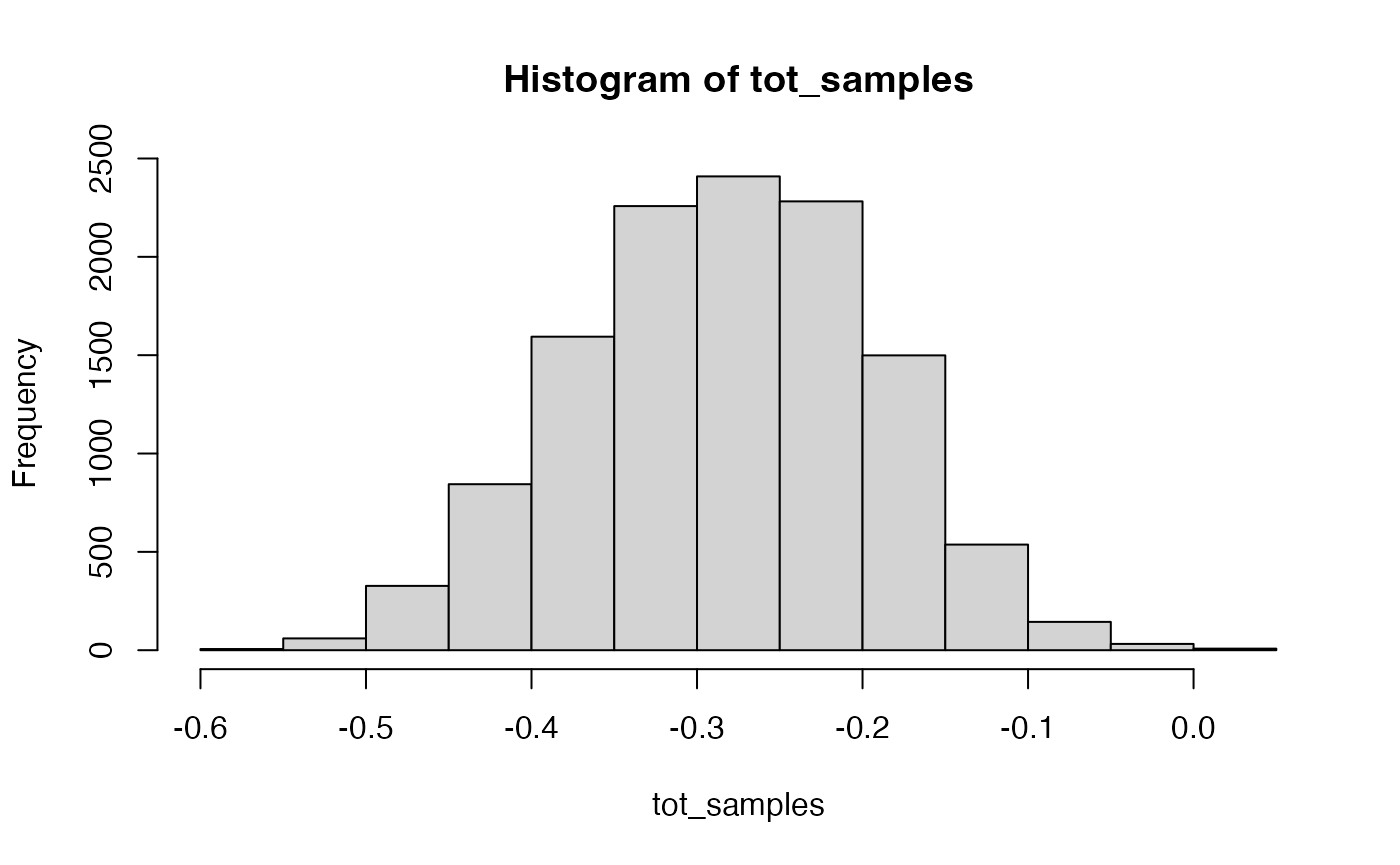
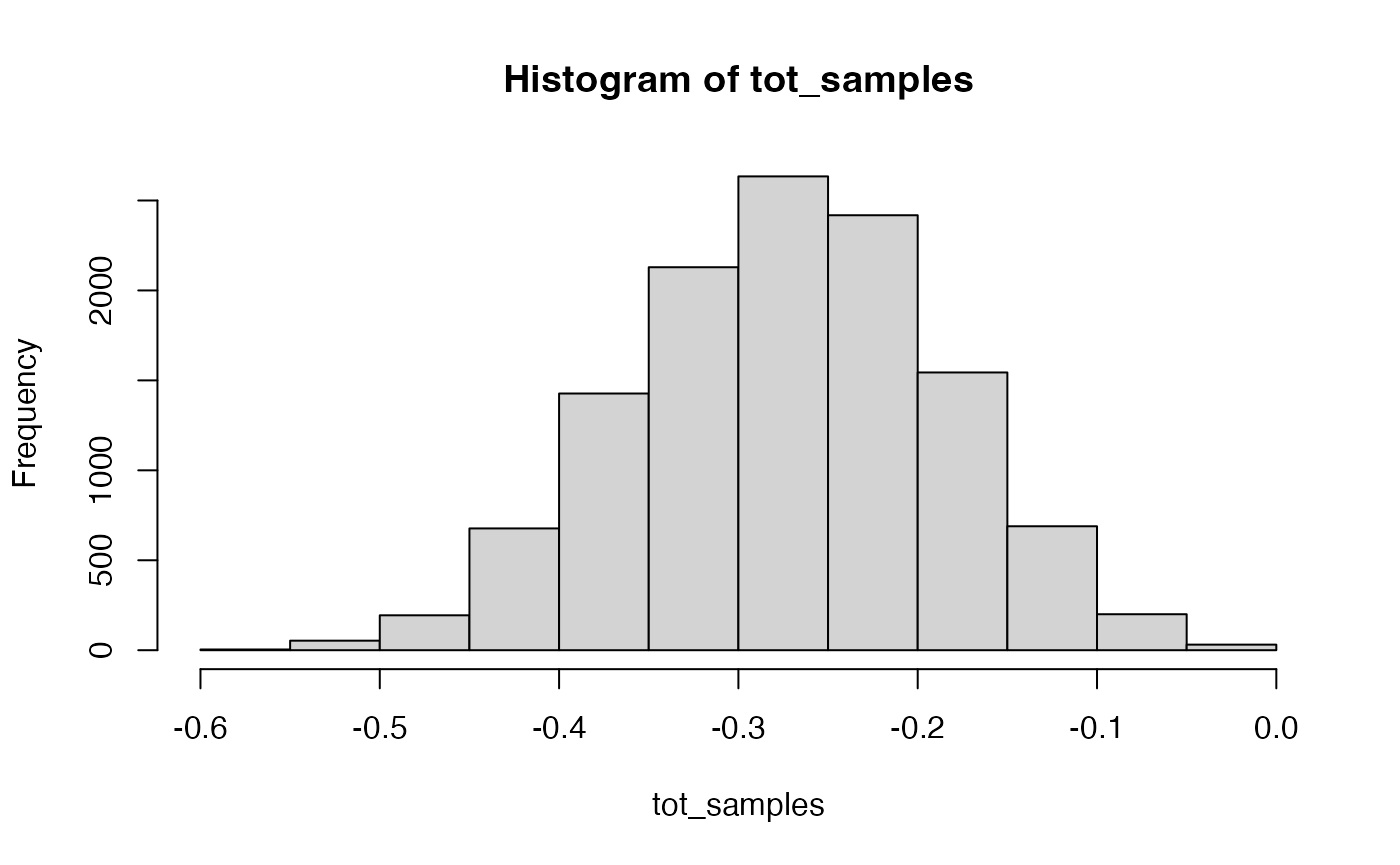
Update Website

diff --git a/docs/articles/FLOW-MR-tutorial.html b/docs/articles/FLOW-MR-tutorial.html
@@ -72,7 +72,7 @@ how to use the package step by step.</p>
 <span><span class="fu"><a href="https://rdrr.io/r/utils/install.packages.html" class="external-link">install.packages</a></span><span class="op">(</span><span class="st">"devtools"</span><span class="op">)</span></span>
 <span><span class="co">#&gt; </span></span>
 <span><span class="co">#&gt; The downloaded binary packages are in</span></span>
-<span><span class="co">#&gt;  /var/folders/1p/kyg0zmtx4gdg27q_5x4d78fc0000gn/T//RtmpDkucRo/downloaded_packages</span></span>
+<span><span class="co">#&gt;  /var/folders/1p/kyg0zmtx4gdg27q_5x4d78fc0000gn/T//RtmptWTpdY/downloaded_packages</span></span>
 <span></span>
 <span><span class="co"># Install FLOW-MR</span></span>
 <span><span class="fu">devtools</span><span class="fu">::</span><span class="fu"><a href="https://remotes.r-lib.org/reference/install_github.html" class="external-link">install_github</a></span><span class="op">(</span><span class="st">"ZixuanWu1/FLOW-MR"</span><span class="op">)</span></span>
@@ -86,9 +86,9 @@ how to use the package step by step.</p>
 <span><span class="co">#&gt; RcppArmad... (14.0.2-1 -&gt; 14.2.3-1) [CRAN]</span></span>
 <span><span class="co">#&gt; </span></span>
 <span><span class="co">#&gt; The downloaded binary packages are in</span></span>
-<span><span class="co">#&gt;  /var/folders/1p/kyg0zmtx4gdg27q_5x4d78fc0000gn/T//RtmpDkucRo/downloaded_packages</span></span>
+<span><span class="co">#&gt;  /var/folders/1p/kyg0zmtx4gdg27q_5x4d78fc0000gn/T//RtmptWTpdY/downloaded_packages</span></span>
 <span><span class="co">#&gt; <span style="color: #00BBBB;">──</span> <span style="color: #00BBBB;">R CMD build</span> <span style="color: #00BBBB;">─────────────────────────────────────────────────────────────────</span></span></span>
-<span><span class="co">#&gt; * checking for file ‘/private/var/folders/1p/kyg0zmtx4gdg27q_5x4d78fc0000gn/T/RtmpDkucRo/remotes7c715da2a286/ZixuanWu1-FLOW-MR-61a3970/DESCRIPTION’ ... OK</span></span>
+<span><span class="co">#&gt; * checking for file ‘/private/var/folders/1p/kyg0zmtx4gdg27q_5x4d78fc0000gn/T/RtmptWTpdY/remotes82ab7c5e755f/ZixuanWu1-FLOW-MR-3d2eb46/DESCRIPTION’ ... OK</span></span>
 <span><span class="co">#&gt; * preparing ‘FLOWMR’:</span></span>
 <span><span class="co">#&gt; * checking DESCRIPTION meta-information ... OK</span></span>
 <span><span class="co">#&gt; * cleaning src</span></span>
@@ -210,8 +210,8 @@ diagonal matrix.</p>
 <span><span class="va">cor_mat</span> <span class="op">=</span> <span class="va">data.list</span><span class="op">$</span><span class="va">cor.mat</span><span class="op">[</span><span class="fl">3</span><span class="op">:</span><span class="fl">1</span>, <span class="fl">3</span><span class="op">:</span><span class="fl">1</span><span class="op">]</span></span>
 <span></span>
 <span><span class="va">result</span> <span class="op">=</span> <span class="fu"><a href="../reference/BayesMediation.html">BayesMediation</a></span><span class="op">(</span><span class="va">Gamma_hat</span>, <span class="va">Sd_hat</span>, cor <span class="op">=</span> <span class="va">cor_mat</span>, inv <span class="op">=</span> <span class="cn">TRUE</span><span class="op">)</span></span>
-<span><span class="co">#&gt; [1] "2025-03-14 11:55:25 CDT"</span></span>
-<span><span class="co">#&gt; [1] "2025-03-14 11:57:10 CDT"</span></span></code></pre></div>
+<span><span class="co">#&gt; [1] "2025-03-14 12:34:57 CDT"</span></span>
+<span><span class="co">#&gt; [1] "2025-03-14 12:36:41 CDT"</span></span></code></pre></div>
 </div>
 <div class="section level3">
 <h3 id="step-3-look-at-summary-of-direct-effects">Step 3: Look at summary of direct effects<a class="anchor" aria-label="anchor" href="#step-3-look-at-summary-of-direct-effects"></a>
@@ -221,33 +221,33 @@ corresponds to a parameter.</p>
 <div class="sourceCode" id="cb6"><pre class="downlit sourceCode r">
 <code class="sourceCode R"><span><span class="fu"><a href="https://rdrr.io/r/base/print.html" class="external-link">print</a></span><span class="op">(</span><span class="va">result</span><span class="op">$</span><span class="va">summary</span><span class="op">)</span></span>
 <span><span class="co">#&gt;                   mean          var           sd         2.5%          50%</span></span>
-<span><span class="co">#&gt; B[1,2]     0.141866051 1.690846e-02 0.1300325229 -0.104926563  0.140193822</span></span>
-<span><span class="co">#&gt; B[1,3]    -0.388057840 2.919489e-02 0.1708651177 -0.734887427 -0.384418091</span></span>
-<span><span class="co">#&gt; B[2,3]     0.713930148 7.093020e-03 0.0842200699  0.570185527  0.706959237</span></span>
-<span><span class="co">#&gt; sigma      0.438861906 1.336051e-02 0.1155876721  0.276587484  0.417741913</span></span>
-<span><span class="co">#&gt; sigma1[1]  0.025779130 1.868805e-05 0.0043229683  0.019017152  0.025219493</span></span>
-<span><span class="co">#&gt; sigma1[2]  0.025750103 6.300285e-05 0.0079374332  0.015839325  0.024068162</span></span>
-<span><span class="co">#&gt; sigma1[3]  0.047771671 9.741439e-05 0.0098698729  0.032528606  0.046388461</span></span>
-<span><span class="co">#&gt; sigma0[1]  0.004271716 7.381307e-07 0.0008591453  0.002761299  0.004214239</span></span>
-<span><span class="co">#&gt; sigma0[2]  0.008388768 6.957819e-07 0.0008341354  0.006730439  0.008401480</span></span>
-<span><span class="co">#&gt; sigma0[3]  0.011020590 1.559711e-06 0.0012488841  0.008687725  0.011006826</span></span>
-<span><span class="co">#&gt; p[1]       0.099314293 1.245940e-03 0.0352978753  0.041376946  0.095277501</span></span>
-<span><span class="co">#&gt; p[2]       0.023073770 3.257777e-04 0.0180493142  0.002542834  0.018454671</span></span>
-<span><span class="co">#&gt; p[3]       0.041990350 2.540267e-04 0.0159382146  0.016782304  0.040033957</span></span>
-<span><span class="co">#&gt;                  97.5%        ESS     Rhat</span></span>
-<span><span class="co">#&gt; B[1,2]     0.407567356  439.25692 1.002105</span></span>
-<span><span class="co">#&gt; B[1,3]    -0.066591058  369.67624 1.007111</span></span>
-<span><span class="co">#&gt; B[2,3]     0.897578677   68.76023 1.001522</span></span>
-<span><span class="co">#&gt; sigma      0.716403789 3004.52552 1.003097</span></span>
-<span><span class="co">#&gt; sigma1[1]  0.035743097 1457.78732 1.000962</span></span>
-<span><span class="co">#&gt; sigma1[2]  0.045771036 3258.89012 1.000128</span></span>
-<span><span class="co">#&gt; sigma1[3]  0.071003778 1137.78288 1.000100</span></span>
-<span><span class="co">#&gt; sigma0[1]  0.006042001  191.53655 1.002549</span></span>
-<span><span class="co">#&gt; sigma0[2]  0.009977830  373.67315 1.010593</span></span>
-<span><span class="co">#&gt; sigma0[3]  0.013549715  352.16442 1.013229</span></span>
-<span><span class="co">#&gt; p[1]       0.177034040  700.56206 1.003329</span></span>
-<span><span class="co">#&gt; p[2]       0.070444940  744.26145 1.002014</span></span>
-<span><span class="co">#&gt; p[3]       0.078818644 1713.76121 1.000228</span></span></code></pre></div>
+<span><span class="co">#&gt; B[1,2]     0.134913387 1.719653e-02 0.1311355442 -0.115930446  0.131241096</span></span>
+<span><span class="co">#&gt; B[1,3]    -0.373274711 2.832795e-02 0.1683090772 -0.707048889 -0.370629141</span></span>
+<span><span class="co">#&gt; B[2,3]     0.715704146 8.267723e-03 0.0909270194  0.554048173  0.708927402</span></span>
+<span><span class="co">#&gt; sigma      0.430773343 1.263640e-02 0.1124117310  0.274130601  0.410737369</span></span>
+<span><span class="co">#&gt; sigma1[1]  0.025843267 1.910750e-05 0.0043712126  0.019143010  0.025225680</span></span>
+<span><span class="co">#&gt; sigma1[2]  0.025620768 5.962903e-05 0.0077219836  0.015781365  0.023996519</span></span>
+<span><span class="co">#&gt; sigma1[3]  0.047493917 9.527704e-05 0.0097609957  0.032502388  0.046127030</span></span>
+<span><span class="co">#&gt; sigma0[1]  0.004456084 7.257935e-07 0.0008519351  0.002936838  0.004406036</span></span>
+<span><span class="co">#&gt; sigma0[2]  0.008318044 7.318712e-07 0.0008554947  0.006593115  0.008331225</span></span>
+<span><span class="co">#&gt; sigma0[3]  0.011111692 1.499355e-06 0.0012244814  0.008846204  0.011085034</span></span>
+<span><span class="co">#&gt; p[1]       0.098620779 1.251526e-03 0.0353769149  0.041497792  0.094618998</span></span>
+<span><span class="co">#&gt; p[2]       0.022496718 2.999404e-04 0.0173187878  0.002380391  0.018029407</span></span>
+<span><span class="co">#&gt; p[3]       0.042391575 2.495704e-04 0.0157977977  0.017679296  0.040252212</span></span>
+<span><span class="co">#&gt;                  97.5%        ESS      Rhat</span></span>
+<span><span class="co">#&gt; B[1,2]     0.397526222  529.39168 1.0080885</span></span>
+<span><span class="co">#&gt; B[1,3]    -0.050858200  429.07182 1.0070260</span></span>
+<span><span class="co">#&gt; B[2,3]     0.929141533   67.83301 1.0295475</span></span>
+<span><span class="co">#&gt; sigma      0.704547143 4815.13038 1.0009763</span></span>
+<span><span class="co">#&gt; sigma1[1]  0.036222806 1523.29069 1.0007237</span></span>
+<span><span class="co">#&gt; sigma1[2]  0.045137731 3150.57332 0.9998395</span></span>
+<span><span class="co">#&gt; sigma1[3]  0.070531483 1262.83868 1.0028611</span></span>
+<span><span class="co">#&gt; sigma0[1]  0.006233283  193.53541 1.0026416</span></span>
+<span><span class="co">#&gt; sigma0[2]  0.009913154  281.13879 1.0195578</span></span>
+<span><span class="co">#&gt; sigma0[3]  0.013653479  338.66724 1.0043035</span></span>
+<span><span class="co">#&gt; p[1]       0.176972208  636.39729 1.0018152</span></span>
+<span><span class="co">#&gt; p[2]       0.067572575  816.55479 0.9999254</span></span>
+<span><span class="co">#&gt; p[3]       0.079586440 1687.87773 1.0009081</span></span></code></pre></div>
 <p>In this summary, we provide the estimated posterior mean, variance,
 standard deviation, 2.5% quantile, median, 97.5% quantile, effective
 sample size (ESS), and Gelman-Rubin Rhat statistic for each parameter.
@@ -267,8 +267,8 @@ the direct direct effect of childhood BMI on breast cancer;
 BMI on adult BMI.</p>
 <p>See the figure below for a visualization.</p>
 <div class="sourceCode" id="cb7"><pre class="downlit sourceCode r">
-<code class="sourceCode R"><span><span class="fu">knitr</span><span class="fu">::</span><span class="fu"><a href="https://rdrr.io/pkg/knitr/man/include_graphics.html" class="external-link">include_graphics</a></span><span class="op">(</span><span class="st">"/Users/zixuanwu/Documents/GitHub/FLOW-MR/docs/EffectVisual.png"</span><span class="op">)</span></span></code></pre></div>
-<p><img src="..%2Fdocs%2FEffectVisual.png" width="870"></p>
+<code class="sourceCode R"><span><span class="fu">knitr</span><span class="fu">::</span><span class="fu"><a href="https://rdrr.io/pkg/knitr/man/include_graphics.html" class="external-link">include_graphics</a></span><span class="op">(</span><span class="st">"https://zixuanwu1.github.io/FLOW-MR/articles/FLOW-MR-tutorial_files/figure-html/EffectVisual.png"</span><span class="op">)</span></span></code></pre></div>
+<p><img src="https://zixuanwu1.github.io/FLOW-MR/articles/FLOW-MR-tutorial_files/figure-html/EffectVisual.png"><!-- --></p>
 <p>For the meaning of other parameters, we assume the following priors
 in our manuscript:</p>
 <p><math display="block" xmlns="http://www.w3.org/1998/Math/MathML"><semantics><mrow><msub><mi>α</mi><mrow><mi>k</mi><mi>j</mi></mrow></msub><mo>∼</mo><mrow><mo stretchy="true" form="prefix">(</mo><mn>1</mn><mo>−</mo><msub><mi>p</mi><mi>k</mi></msub><mo stretchy="true" form="postfix">)</mo></mrow><mi>N</mi><mrow><mo stretchy="true" form="prefix">(</mo><mn>0</mn><mo>,</mo><msubsup><mi>σ</mi><mrow><mi>k</mi><mn>0</mn></mrow><mn>2</mn></msubsup><mo stretchy="true" form="postfix">)</mo></mrow><mo>+</mo><msub><mi>p</mi><mi>k</mi></msub><mi>N</mi><mrow><mo stretchy="true" form="prefix">(</mo><mn>0</mn><mo>,</mo><msubsup><mi>σ</mi><mrow><mi>k</mi><mn>1</mn></mrow><mn>2</mn></msubsup><mo stretchy="true" form="postfix">)</mo></mrow></mrow><annotation encoding="application/x-tex">
@@ -320,8 +320,8 @@ a user-defined warm-up period. The parameter must be one of “B”,
 <p>We can check its quantiles:</p>
 <div class="sourceCode" id="cb9"><pre class="downlit sourceCode r">
 <code class="sourceCode R"><span><span class="fu"><a href="https://rdrr.io/r/stats/quantile.html" class="external-link">quantile</a></span><span class="op">(</span><span class="va">post_B</span>, <span class="fu"><a href="https://rdrr.io/r/base/c.html" class="external-link">c</a></span><span class="op">(</span><span class="fl">0.025</span>, <span class="fl">.5</span>, <span class="fl">0.975</span><span class="op">)</span><span class="op">)</span></span>
-<span><span class="co">#&gt;        2.5%         50%       97.5% </span></span>
-<span><span class="co">#&gt; -0.73488743 -0.38441809 -0.06659106</span></span></code></pre></div>
+<span><span class="co">#&gt;       2.5%        50%      97.5% </span></span>
+<span><span class="co">#&gt; -0.7070489 -0.3706291 -0.0508582</span></span></code></pre></div>
 <p>And we can also draw a histogram of it for visualization:</p>
 <div class="sourceCode" id="cb10"><pre class="downlit sourceCode r">
 <code class="sourceCode R"><span><span class="fu"><a href="https://rdrr.io/r/graphics/hist.html" class="external-link">hist</a></span><span class="op">(</span><span class="va">post_B</span>, breaks <span class="op">=</span> <span class="fl">30</span><span class="op">)</span></span></code></pre></div>
@@ -359,7 +359,7 @@ the four chains do not appear similar.</p>
 iterations or adjusting the prior parameters</p>
 </div>
 <div class="section level3">
-<h3 id="step-5-estimating-path-wise-indirect-effects">Step 5 Estimating path-wise / indirect effects<a class="anchor" aria-label="anchor" href="#step-5-estimating-path-wise-indirect-effects"></a>
+<h3 id="step-6-estimating-path-wise-indirect-effects">Step 6 Estimating path-wise / indirect effects<a class="anchor" aria-label="anchor" href="#step-6-estimating-path-wise-indirect-effects"></a>
 </h3>
 <p>To estimate path-wise effects, use the following command. For
 example, the function <code>indirect_effect</code> evaluates the
@@ -367,8 +367,8 @@ indirect effect of childhood BMI on breast cancer through adult BMI:</p>
 <div class="sourceCode" id="cb15"><pre class="downlit sourceCode r">
 <code class="sourceCode R"><span><span class="va">path_effect</span> <span class="op">=</span> <span class="fu"><a href="../reference/indirect_effect.html">indirect_effect</a></span><span class="op">(</span><span class="va">result</span><span class="op">$</span><span class="va">raw</span>, K <span class="op">=</span> <span class="fl">3</span>, path <span class="op">=</span> <span class="fu"><a href="https://rdrr.io/r/base/c.html" class="external-link">c</a></span><span class="op">(</span><span class="fl">3</span>,<span class="fl">2</span>,<span class="fl">1</span><span class="op">)</span>,  warmup <span class="op">=</span> <span class="fl">3000</span><span class="op">)</span></span>
 <span><span class="fu"><a href="https://rdrr.io/r/base/print.html" class="external-link">print</a></span><span class="op">(</span><span class="va">path_effect</span><span class="op">)</span></span>
-<span><span class="co">#&gt;        Mean      2.5%        50%     97.5%</span></span>
-<span><span class="co">#&gt; 1 0.1049813 -0.071848 0.09737741 0.3369249</span></span></code></pre></div>
+<span><span class="co">#&gt;        Mean        2.5%       50%     97.5%</span></span>
+<span><span class="co">#&gt; 1 0.1002068 -0.08022223 0.0918291 0.3274408</span></span></code></pre></div>
 <p>The <code>path</code> parameter specifies the path you are interested
 it. In this case it is 3 -&gt; 2 -&gt; 1. Alternatively, instead of
 focusing on a specific path, you can estimate the sum of effects from
@@ -384,28 +384,28 @@ respectively.</p>
 <span><span class="co">#&gt; , , Mean</span></span>
 <span><span class="co">#&gt; </span></span>
 <span><span class="co">#&gt;      [,1] [,2]      [,3]</span></span>
-<span><span class="co">#&gt; [1,]    0    0 0.1049813</span></span>
+<span><span class="co">#&gt; [1,]    0    0 0.1002068</span></span>
 <span><span class="co">#&gt; [2,]    0    0 0.0000000</span></span>
 <span><span class="co">#&gt; [3,]    0    0 0.0000000</span></span>
 <span><span class="co">#&gt; </span></span>
 <span><span class="co">#&gt; , , Quantile_0.025</span></span>
 <span><span class="co">#&gt; </span></span>
-<span><span class="co">#&gt;      [,1] [,2]      [,3]</span></span>
-<span><span class="co">#&gt; [1,]    0    0 -0.071848</span></span>
-<span><span class="co">#&gt; [2,]    0    0  0.000000</span></span>
-<span><span class="co">#&gt; [3,]    0    0  0.000000</span></span>
+<span><span class="co">#&gt;      [,1] [,2]        [,3]</span></span>
+<span><span class="co">#&gt; [1,]    0    0 -0.08022223</span></span>
+<span><span class="co">#&gt; [2,]    0    0  0.00000000</span></span>
+<span><span class="co">#&gt; [3,]    0    0  0.00000000</span></span>
 <span><span class="co">#&gt; </span></span>
 <span><span class="co">#&gt; , , Quantile_0.5</span></span>
 <span><span class="co">#&gt; </span></span>
-<span><span class="co">#&gt;      [,1] [,2]       [,3]</span></span>
-<span><span class="co">#&gt; [1,]    0    0 0.09737741</span></span>
-<span><span class="co">#&gt; [2,]    0    0 0.00000000</span></span>
-<span><span class="co">#&gt; [3,]    0    0 0.00000000</span></span>
+<span><span class="co">#&gt;      [,1] [,2]      [,3]</span></span>
+<span><span class="co">#&gt; [1,]    0    0 0.0918291</span></span>
+<span><span class="co">#&gt; [2,]    0    0 0.0000000</span></span>
+<span><span class="co">#&gt; [3,]    0    0 0.0000000</span></span>
 <span><span class="co">#&gt; </span></span>
 <span><span class="co">#&gt; , , Quantile_0.975</span></span>
 <span><span class="co">#&gt; </span></span>
 <span><span class="co">#&gt;      [,1] [,2]      [,3]</span></span>
-<span><span class="co">#&gt; [1,]    0    0 0.3369249</span></span>
+<span><span class="co">#&gt; [1,]    0    0 0.3274408</span></span>
 <span><span class="co">#&gt; [2,]    0    0 0.0000000</span></span>
 <span><span class="co">#&gt; [3,]    0    0 0.0000000</span></span></code></pre></div>
 <p>We can also examine the posterior inference for the total effects,
@@ -416,29 +416,29 @@ which represent the sum of the direct and indirect effects.</p>
 <span><span class="co">#&gt; , , Mean</span></span>
 <span><span class="co">#&gt; </span></span>
 <span><span class="co">#&gt;      [,1]      [,2]       [,3]</span></span>
-<span><span class="co">#&gt; [1,]    0 0.1418661 -0.2830765</span></span>
-<span><span class="co">#&gt; [2,]    0 0.0000000  0.7139301</span></span>
+<span><span class="co">#&gt; [1,]    0 0.1349134 -0.2730679</span></span>
+<span><span class="co">#&gt; [2,]    0 0.0000000  0.7157041</span></span>
 <span><span class="co">#&gt; [3,]    0 0.0000000  0.0000000</span></span>
 <span><span class="co">#&gt; </span></span>
 <span><span class="co">#&gt; , , Quantile_0.025</span></span>
 <span><span class="co">#&gt; </span></span>
 <span><span class="co">#&gt;      [,1]       [,2]       [,3]</span></span>
-<span><span class="co">#&gt; [1,]    0 -0.1049266 -0.4600292</span></span>
-<span><span class="co">#&gt; [2,]    0  0.0000000  0.5701855</span></span>
+<span><span class="co">#&gt; [1,]    0 -0.1159304 -0.4436384</span></span>
+<span><span class="co">#&gt; [2,]    0  0.0000000  0.5540482</span></span>
 <span><span class="co">#&gt; [3,]    0  0.0000000  0.0000000</span></span>
 <span><span class="co">#&gt; </span></span>
 <span><span class="co">#&gt; , , Quantile_0.5</span></span>
 <span><span class="co">#&gt; </span></span>
 <span><span class="co">#&gt;      [,1]      [,2]       [,3]</span></span>
-<span><span class="co">#&gt; [1,]    0 0.1401938 -0.2812061</span></span>
-<span><span class="co">#&gt; [2,]    0 0.0000000  0.7069592</span></span>
+<span><span class="co">#&gt; [1,]    0 0.1312411 -0.2706831</span></span>
+<span><span class="co">#&gt; [2,]    0 0.0000000  0.7089274</span></span>
 <span><span class="co">#&gt; [3,]    0 0.0000000  0.0000000</span></span>
 <span><span class="co">#&gt; </span></span>
 <span><span class="co">#&gt; , , Quantile_0.975</span></span>
 <span><span class="co">#&gt; </span></span>
 <span><span class="co">#&gt;      [,1]      [,2]       [,3]</span></span>
-<span><span class="co">#&gt; [1,]    0 0.4075674 -0.1149826</span></span>
-<span><span class="co">#&gt; [2,]    0 0.0000000  0.8975787</span></span>
+<span><span class="co">#&gt; [1,]    0 0.3975262 -0.1076652</span></span>
+<span><span class="co">#&gt; [2,]    0 0.0000000  0.9291415</span></span>
 <span><span class="co">#&gt; [3,]    0 0.0000000  0.0000000</span></span></code></pre></div>
 <p>Finally, we demonstrate how to extract posterior samples of total,
 indirect, and path-wise effects, similar to how we did for the direct
